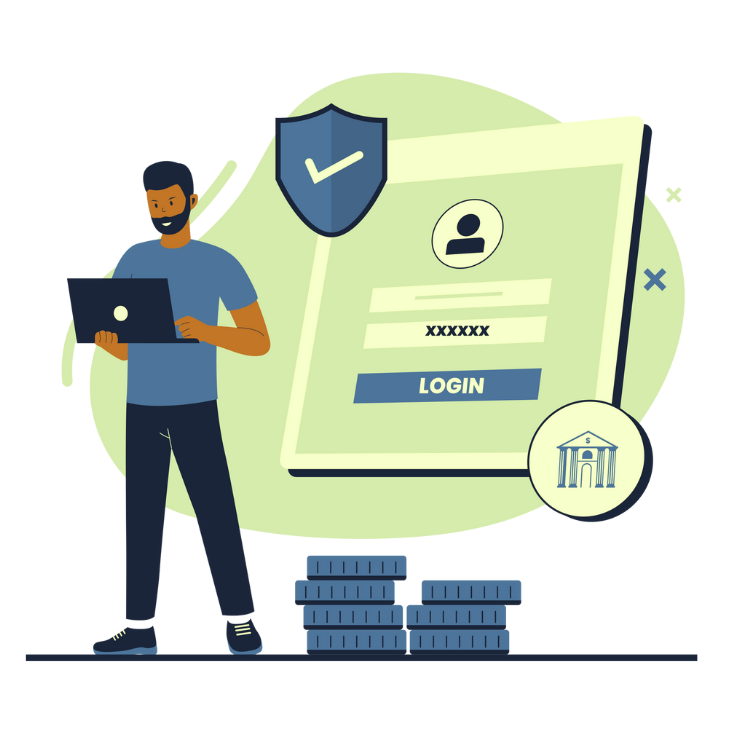
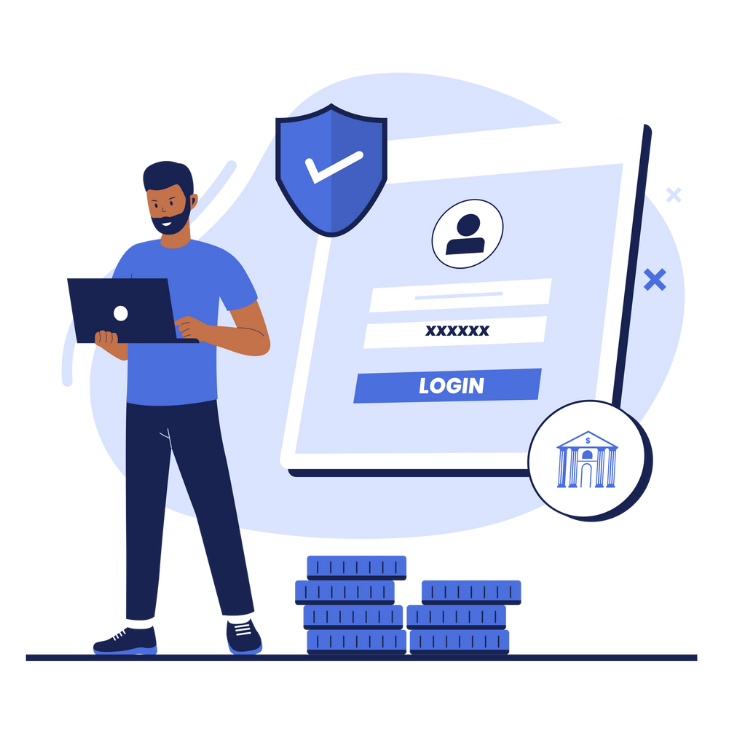
Refactor authentication UI: update background colors, enhance Google button styling, and improve layout in Login and Signup pages

diff --git a/client/src/components/Auth/SignupForm.jsx b/client/src/components/Auth/SignupForm.jsx
@@ -27,20 +27,25 @@ export default function SignupForm() {
   };
 
   return (
-    <div className="bg-green-50 flex items-center justify-center p-6">
+    <div className=" flex items-center justify-center p-6">
       <div className="w-full max-w-md bg-white shadow-2xl rounded-2xl overflow-hidden">
-        <div className="bg-green-800 text-white p-4 text-center">
-          <h2 className="text-3xl font-bold">Sign Up</h2>
-          <p className="text-green-100 mt-2">
+        <div className="bg-text-primary text-white p-4 text-center">
+          <h2 className="text-3xl font-bold">
+            Sign Up
+          </h2>
+          <p className=" mt-2">
             Please sign up to book an appointment
           </p>
         </div>
 
-        <form onSubmit={handleSubmit} className="p-6 flex flex-col text-sm gap-2">
+        <form
+          onSubmit={handleSubmit}
+          className="p-6 flex flex-col text-sm gap-2"
+        >
           <div className="">
             <label
               htmlFor="fullName"
-              className="block text-green-800 font-semibold"
+              className="block text-text-primary font-semibold"
             >
               Full Name
             </label>
@@ -50,7 +55,7 @@ export default function SignupForm() {
               name="fullName"
               value={formData.fullName}
               onChange={handleChange}
-              className="w-full px-2 py-2 border-2 border-green-800 rounded-lg focus:outline-none focus:ring-0"
+              className="w-full px-2 py-2 border-2 border-text-primary rounded-lg focus:outline-none focus:ring-0"
               placeholder="Enter your full name"
               required
             />
@@ -59,7 +64,7 @@ export default function SignupForm() {
           <div className="">
             <label
               htmlFor="username"
-              className="block text-green-800 font-semibold"
+              className="block text-text-primary font-semibold"
             >
               Username
             </label>
@@ -69,7 +74,7 @@ export default function SignupForm() {
               name="username"
               value={formData.username}
               onChange={handleChange}
-              className="w-full px-2 py-2 border-2 border-green-800 rounded-lg focus:outline-none focus:ring-0"
+              className="w-full px-2 py-2 border-2 border-text-primary rounded-lg focus:outline-none focus:ring-0"
               placeholder="Choose a username"
               required
             />
@@ -78,7 +83,7 @@ export default function SignupForm() {
           <div className="">
             <label
               htmlFor="email"
-              className="block text-green-800 font-semibold"
+              className="block text-text-primary font-semibold"
             >
               Email
             </label>
@@ -88,7 +93,7 @@ export default function SignupForm() {
               name="email"
               value={formData.email}
               onChange={handleChange}
-              className="w-full px-2 py-2 border-2 border-green-800 rounded-lg focus:outline-none focus:ring-0"
+              className="w-full px-2 py-2 border-2 border-text-primary rounded-lg focus:outline-none focus:ring-0"
               placeholder="Enter your email"
               required
             />
@@ -97,7 +102,7 @@ export default function SignupForm() {
           <div className="">
             <label
               htmlFor="password"
-              className="block text-green-800 font-semibold"
+              className="block text-text-primary font-semibold"
             >
               Password
             </label>
@@ -107,7 +112,7 @@ export default function SignupForm() {
               name="password"
               value={formData.password}
               onChange={handleChange}
-              className="w-full px-2 py-2 border-2 border-green-800 rounded-lg focus:outline-none focus:ring-0"
+              className="w-full px-2 py-2 border-2 border-text-primary rounded-lg focus:outline-none focus:ring-0"
               placeholder="Create a strong password"
               required
             />
@@ -116,7 +121,7 @@ export default function SignupForm() {
           <div className="">
             <label
               htmlFor="confirmPassword"
-              className="block text-green-800 font-semibold"
+              className="block text-text-primary font-semibold"
             >
               Confirm Password
             </label>
@@ -126,7 +131,7 @@ export default function SignupForm() {
               name="confirmPassword"
               value={formData.confirmPassword}
               onChange={handleChange}
-              className="w-full px-2 py-2 border-2 border-green-800 rounded-lg focus:outline-none focus:ring-0"
+              className="w-full px-2 py-2 border-2 border-text-primary rounded-lg focus:outline-none focus:ring-0"
               placeholder="Confirm your password"
               required
             />
@@ -134,15 +139,17 @@ export default function SignupForm() {
 
           <button
             type="submit"
-            className="w-full bg-green-800 text-white py-[10px] px-8 my-2 rounded-lg hover:bg-green-700 transition duration-300 font-semibold"
+            className="w-full bg-text-primary text-white py-[10px] px-8 my-2 rounded-lg hover:bg-text-primary transition duration-300 font-semibold"
           >
             Create Account
           </button>
 
           <div className="flex items-center justify-center gap-4">
-            <div className="border-t border-green-300 flex-grow"></div>
-            <span className="text-green-800 font-semibold">OR</span>
-            <div className="border-t border-green-300 flex-grow"></div>
+            <div className="border-t border-text-primary flex-grow"></div>
+            <span className="text-text-primary font-semibold">
+              OR
+            </span>
+            <div className="border-t border-text-primary flex-grow"></div>
           </div>
 
           <div className="flex flex-col items-center gap-2 text-sm">
@@ -150,7 +157,7 @@ export default function SignupForm() {
             <MetaButton />
           </div>
 
-          <div className="text-sm flex items-center justify-center gap-1 mt-2 text-green-800">
+          <div className="text-sm flex items-center justify-center gap-1 mt-2 text-text-primary">
             Already have an account?{" "}
             <Link
               to="/login"

diff --git a/client/src/components/Auth/LoginForm.jsx b/client/src/components/Auth/LoginForm.jsx
@@ -24,20 +24,25 @@ export default function LoginForm() {
   };
 
   return (
-    <div className="bg-green-50 flex items-center justify-center p-6">
-      <div className="w-full max-w-md bg-white shadow-2xl rounded-2xl overflow-hidden">
-        <div className="bg-green-800 text-white p-4 text-center">
-          <h2 className="text-3xl font-bold">Login</h2>
-          <p className="text-green-100 mt-2">
+    <div className="flex items-center justify-center p-6">
+      <div className="w-full max-w-md  bg-white shadow-2xl rounded-2xl overflow-hidden">
+        <div className=" text-white p-4 bg-text-primary text-center">
+          <h2 className="text-3xl font-bold">
+            Login
+          </h2>
+          <p className=" mt-2">
             Please log in to book an appointment
           </p>
         </div>
 
-        <form onSubmit={handleSubmit} className="p-6 flex flex-col text-sm gap-2">
+        <form
+          onSubmit={handleSubmit}
+          className="p-6 flex flex-col text-sm gap-2"
+        >
           <div className="">
             <label
               htmlFor="email"
-              className="block text-green-800 font-semibold"
+              className="block text-text-primary font-semibold"
             >
               Email
             </label>
@@ -47,7 +52,7 @@ export default function LoginForm() {
               name="email"
               value={formData.email}
               onChange={handleChange}
-              className="w-full px-2 py-2 border-2 border-green-800 rounded-lg focus:outline-none focus:ring-0"
+              className="w-full px-2 py-2 border-2 border-text-primary rounded-lg focus:outline-none focus:ring-0"
               placeholder="your@email.com"
               required
             />
@@ -56,7 +61,7 @@ export default function LoginForm() {
           <div className="">
             <label
               htmlFor="password"
-              className="block text-green-800 font-semibold"
+              className="block text-text-primary font-semibold"
             >
               Password
             </label>
@@ -66,7 +71,7 @@ export default function LoginForm() {
               name="password"
               value={formData.password}
               onChange={handleChange}
-              className="w-full px-2 py-2 border-2 border-green-800 rounded-lg focus:outline-none focus:ring-0"
+              className="w-full px-2 py-2 border-2 border-text-primary rounded-lg focus:outline-none focus:ring-0"
               placeholder="********"
               required
             />
@@ -75,7 +80,7 @@ export default function LoginForm() {
           <div className="text-right mt-1">
             <Link
               to="/forgotpassword"
-              className="text-green-800 text-sm hover:underline"
+              className="text-text-primary text-sm hover:underline"
             >
               Forgot Password?
             </Link>
@@ -83,15 +88,17 @@ export default function LoginForm() {
 
           <button
             type="submit"
-            className="w-full bg-green-800 text-white py-[10px] px-8 my-2 rounded-lg hover:bg-green-700 transition duration-300 font-semibold"
+            className="w-full bg-text-primary text-white py-[10px] px-8 my-2 rounded-lg hover:bg-text-primary transition duration-300 font-semibold"
           >
             Login
           </button>
 
           <div className="flex items-center justify-center gap-4">
-            <div className="border-t border-green-300 flex-grow"></div>
-            <span className="text-green-800 font-semibold">OR</span>
-            <div className="border-t border-green-300 flex-grow"></div>
+            <div className="border-t border-text-primary flex-grow"></div>
+            <span className="text-text-primary font-semibold">
+              OR
+            </span>
+            <div className="border-t border-text-primary flex-grow"></div>
           </div>
 
           <div className="flex flex-col items-center gap-2 text-sm">
@@ -99,7 +106,7 @@ export default function LoginForm() {
             <MetaButton />
           </div>
 
-          <div className="text-sm flex items-center justify-center gap-1 mt-2 text-green-800">
+          <div className="text-sm flex items-center justify-center gap-1 mt-2 text-text-primary">
             Don't have an account?{" "}
             <Link
               to="/signup"

diff --git a/client/src/pages/Auth/Signup.jsx b/client/src/pages/Auth/Signup.jsx
@@ -1,15 +1,19 @@
-import SignupForm from '../../components/Auth/SignupForm';
-import signUpIcon from '../../assets/images/SignUpIcon.png';
+import SignupForm from "../../components/Auth/SignupForm";
+import signUpIcon from "../../assets/images/SignUpIcon.png";
 
 export default function Signup() {
   return (
-    <div className="bg-green-50 h-auto md:h-[90vh] w-full flex flex-col md:flex-row justify-between items-center p-8 gap-4">
+    <div className="bg-bg-primary h-auto md:h-[90vh] w-full flex flex-col md:flex-row justify-between items-center p-8 gap-4">
       <div className="md:w-1/2 w-auto p-8">
-        <img src={signUpIcon} alt="login Icon" className="w-4/6 mx-auto" />
+        <img
+          src={signUpIcon}
+          alt="login Icon"
+          className="w-4/6 mx-auto"
+        />
       </div>
       <div className="md:w-1/2 w-auto ">
-        <SignupForm className="mx-auto"/>
+        <SignupForm className="mx-auto" />
       </div>
     </div>
-  )
+  );
 }

diff --git a/client/src/pages/Auth/Login.jsx b/client/src/pages/Auth/Login.jsx
@@ -4,10 +4,14 @@ import loginIcon from "../../assets/images/LoginIcon.png";
 
 export default function Login() {
   return (
-    <div className="bg-green-50 w-full flex flex-col md:flex-row justify-evenly items-center md:px-8 gap-8">
-        <img src={loginIcon} alt="login Icon" className="max-w-[30rem] w-1/2 hidden md:block" />
+    <div className="bg-bg-primary w-full flex flex-col md:flex-row justify-evenly items-center md:px-8 gap-8">
+      <img
+        src={loginIcon}
+        alt="login Icon"
+        className="max-w-[30rem] w-1/2 hidden md:block"
+      />
       <div className="md:w-[30rem] w-full pb-8 my-16">
-        <LoginForm/>
+        <LoginForm />
       </div>
     </div>
   );

diff --git a/client/src/components/Common/GoogleButton.jsx b/client/src/components/Common/GoogleButton.jsx
@@ -3,7 +3,7 @@ import { FcGoogle } from "react-icons/fc";
 
 export default function GoogleButton() {
   return (
-    <div className="flex-1 w-full shadow-md border-2 border-gray rounded-full py-2 px-2 flex justify-center items-center gap-4 duration-200 hover:border-red-700 cursor-pointer">
+    <div className="flex-1 w-full shadow-md border-2 border-gray rounded-full py-2 px-2 flex justify-center items-center gap-4 duration-200 hover:border-text-primary cursor-pointer">
       <FcGoogle className="size-6" />
       <div className="font-roboto text-center font-medium">Continue with Google</div>
     </div>
